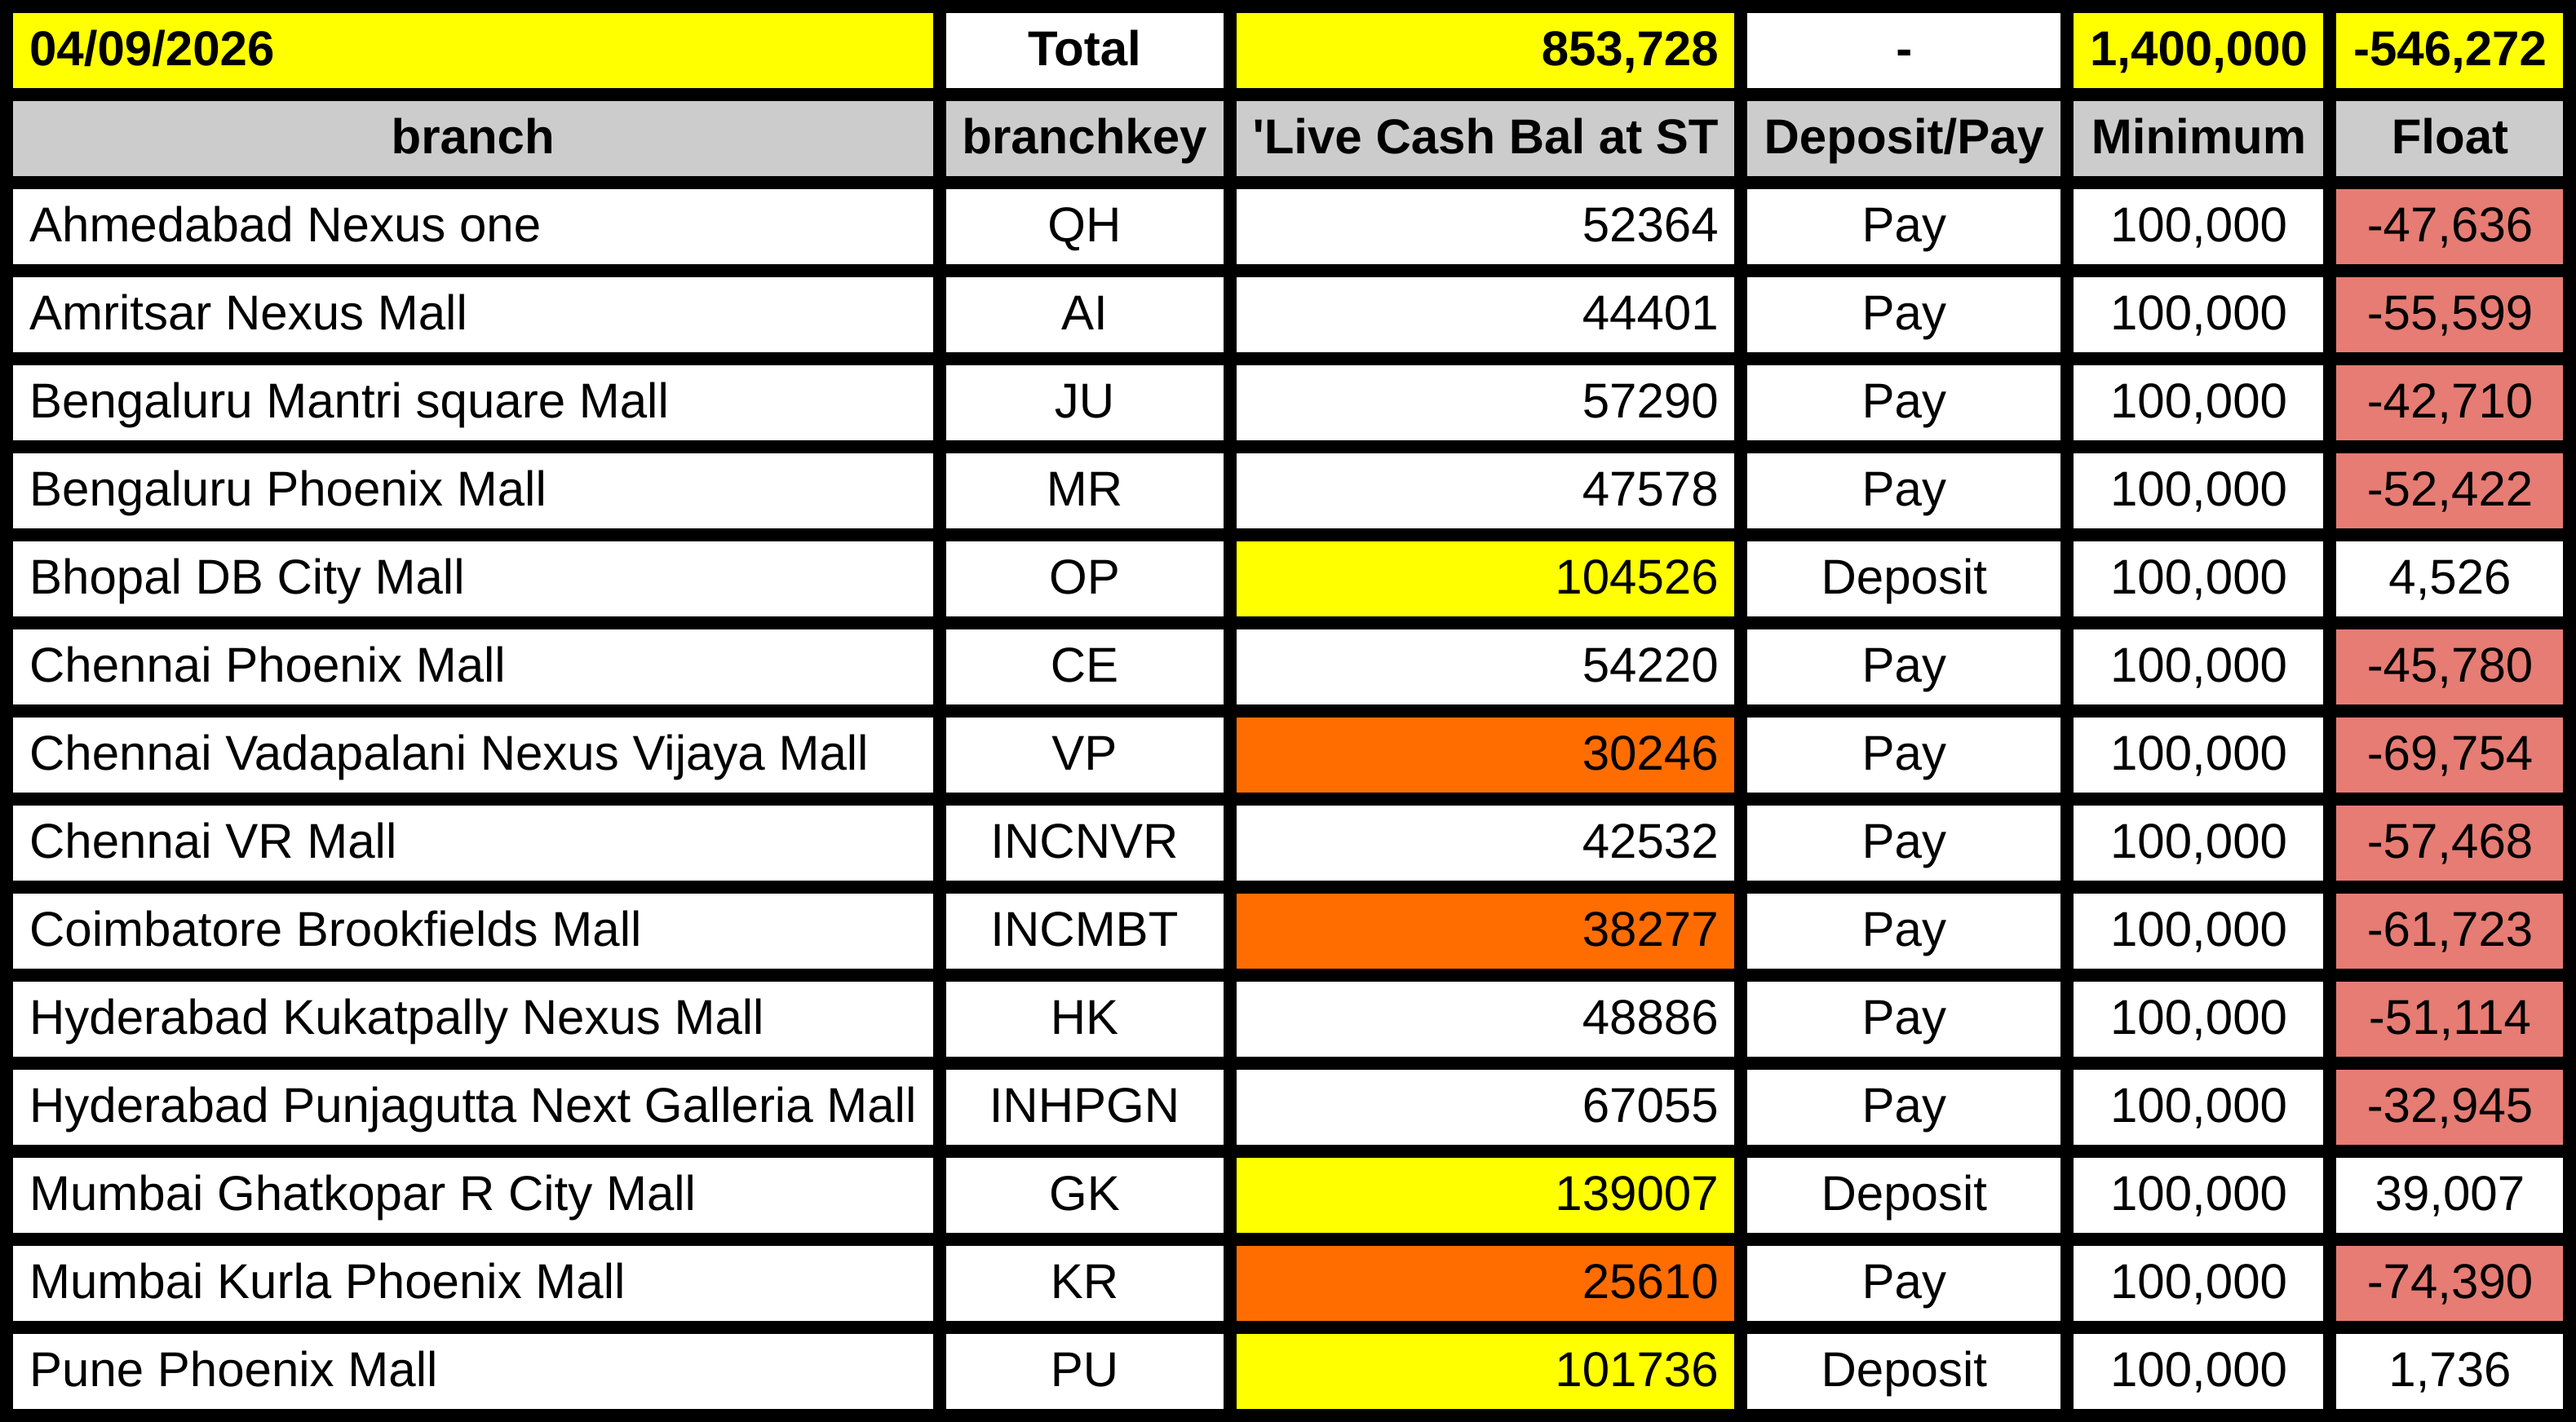
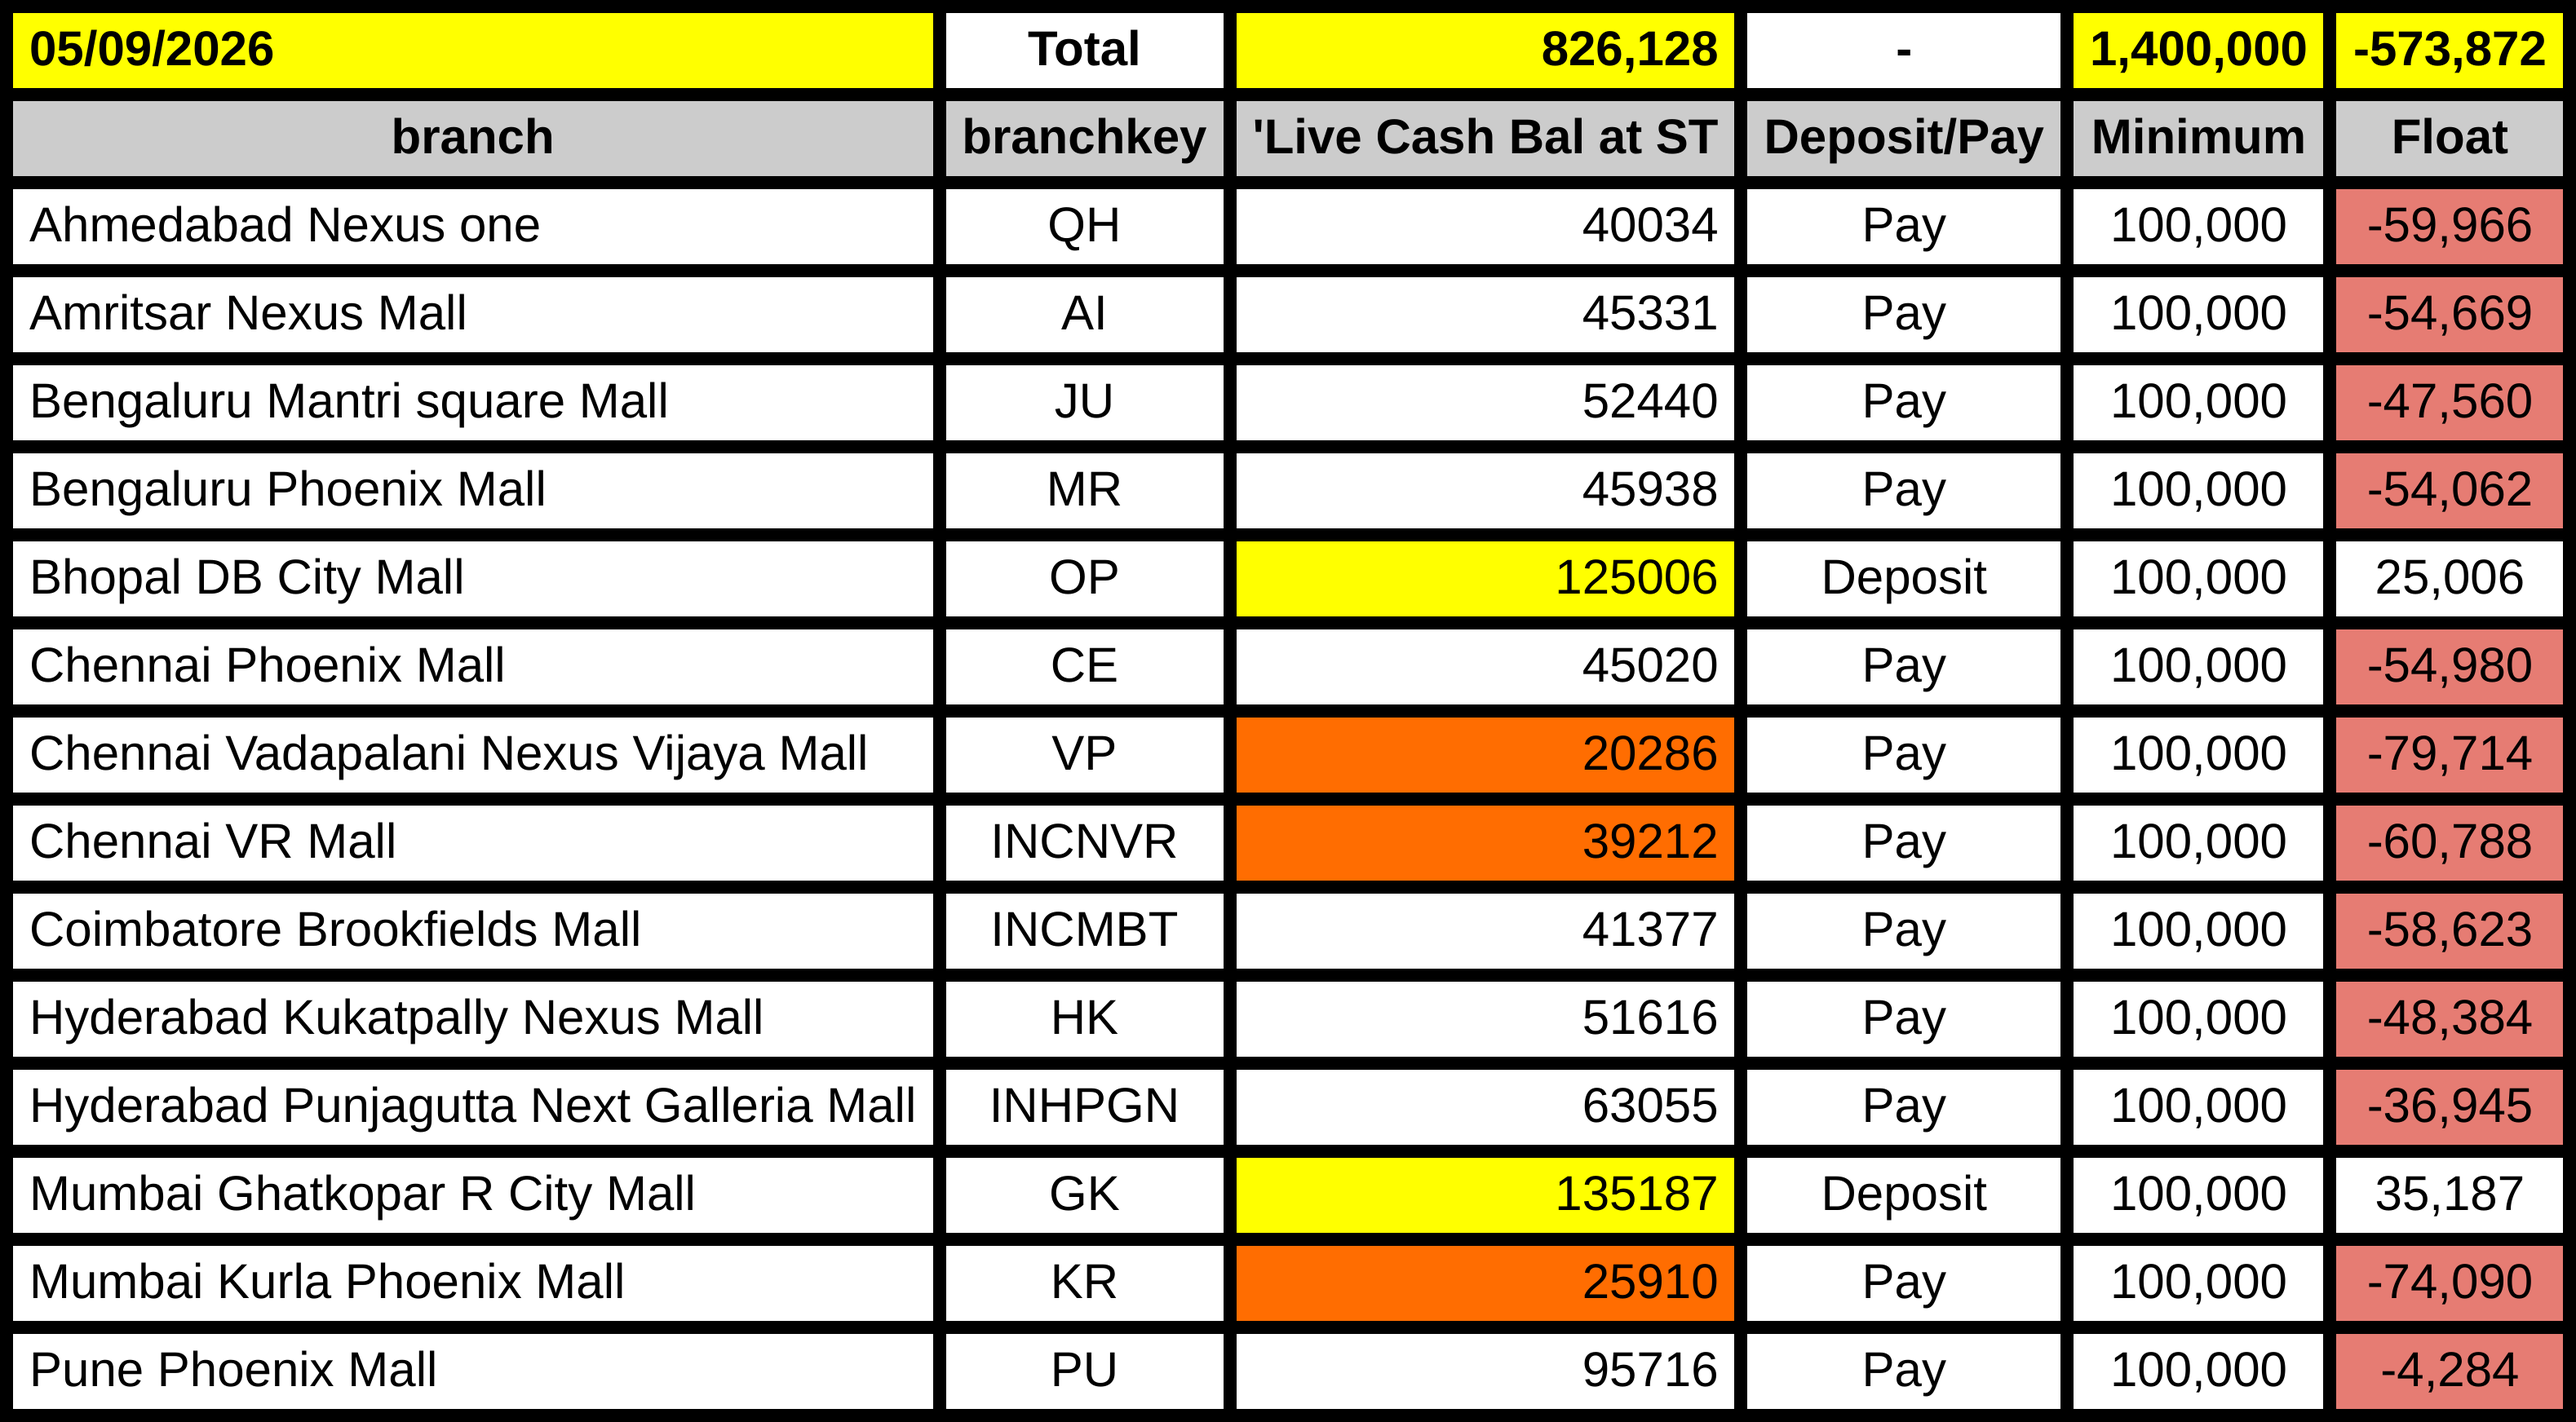
deploy: 1eb6ce62876c9d41067b4594acfaffc291ee4c8b

diff --git a/table.html b/table.html
@@ -21,7 +21,7 @@
           font-family: Arial, sans-serif;
           font-size: 30px;
           white-space: nowrap;
-        ">04/09/2026</td>
+        ">05/09/2026</td>
       
         <td style="
           background-color: #ffffff;
@@ -49,7 +49,7 @@
           font-family: Arial, sans-serif;
           font-size: 30px;
           white-space: nowrap;
-        ">853,728</td>
+        ">826,128</td>
       
         <td style="
           background-color: #ffffff;
@@ -91,7 +91,7 @@
           font-family: Arial, sans-serif;
           font-size: 30px;
           white-space: nowrap;
-        ">-546,272</td>
+        ">-573,872</td>
       </tr><tr>
         <td style="
           background-color: #cccccc;
@@ -217,7 +217,7 @@
           font-family: Arial, sans-serif;
           font-size: 30px;
           white-space: nowrap;
-        ">52364</td>
+        ">40034</td>
       
         <td style="
           background-color: #ffffff;
@@ -259,7 +259,7 @@
           font-family: Arial, sans-serif;
           font-size: 30px;
           white-space: nowrap;
-        ">-47,636</td>
+        ">-59,966</td>
       </tr><tr>
         <td style="
           background-color: #ffffff;
@@ -301,7 +301,7 @@
           font-family: Arial, sans-serif;
           font-size: 30px;
           white-space: nowrap;
-        ">44401</td>
+        ">45331</td>
       
         <td style="
           background-color: #ffffff;
@@ -343,7 +343,7 @@
           font-family: Arial, sans-serif;
           font-size: 30px;
           white-space: nowrap;
-        ">-55,599</td>
+        ">-54,669</td>
       </tr><tr>
         <td style="
           background-color: #ffffff;
@@ -385,7 +385,7 @@
           font-family: Arial, sans-serif;
           font-size: 30px;
           white-space: nowrap;
-        ">57290</td>
+        ">52440</td>
       
         <td style="
           background-color: #ffffff;
@@ -427,7 +427,7 @@
           font-family: Arial, sans-serif;
           font-size: 30px;
           white-space: nowrap;
-        ">-42,710</td>
+        ">-47,560</td>
       </tr><tr>
         <td style="
           background-color: #ffffff;
@@ -469,7 +469,7 @@
           font-family: Arial, sans-serif;
           font-size: 30px;
           white-space: nowrap;
-        ">47578</td>
+        ">45938</td>
       
         <td style="
           background-color: #ffffff;
@@ -511,7 +511,7 @@
           font-family: Arial, sans-serif;
           font-size: 30px;
           white-space: nowrap;
-        ">-52,422</td>
+        ">-54,062</td>
       </tr><tr>
         <td style="
           background-color: #ffffff;
@@ -553,7 +553,7 @@
           font-family: Arial, sans-serif;
           font-size: 30px;
           white-space: nowrap;
-        ">104526</td>
+        ">125006</td>
       
         <td style="
           background-color: #ffffff;
@@ -595,7 +595,7 @@
           font-family: Arial, sans-serif;
           font-size: 30px;
           white-space: nowrap;
-        ">4,526</td>
+        ">25,006</td>
       </tr><tr>
         <td style="
           background-color: #ffffff;
@@ -637,7 +637,7 @@
           font-family: Arial, sans-serif;
           font-size: 30px;
           white-space: nowrap;
-        ">54220</td>
+        ">45020</td>
       
         <td style="
           background-color: #ffffff;
@@ -679,7 +679,7 @@
           font-family: Arial, sans-serif;
           font-size: 30px;
           white-space: nowrap;
-        ">-45,780</td>
+        ">-54,980</td>
       </tr><tr>
         <td style="
           background-color: #ffffff;
@@ -721,7 +721,7 @@
           font-family: Arial, sans-serif;
           font-size: 30px;
           white-space: nowrap;
-        ">30246</td>
+        ">20286</td>
       
         <td style="
           background-color: #ffffff;
@@ -763,7 +763,7 @@
           font-family: Arial, sans-serif;
           font-size: 30px;
           white-space: nowrap;
-        ">-69,754</td>
+        ">-79,714</td>
       </tr><tr>
         <td style="
           background-color: #ffffff;
@@ -794,7 +794,7 @@
         ">INCNVR</td>
       
         <td style="
-          background-color: #ffffff;
+          background-color: #ff6d01;
           color: #000000;
           font-weight: normal;
           font-style: normal;
@@ -805,7 +805,7 @@
           font-family: Arial, sans-serif;
           font-size: 30px;
           white-space: nowrap;
-        ">42532</td>
+        ">39212</td>
       
         <td style="
           background-color: #ffffff;
@@ -847,7 +847,7 @@
           font-family: Arial, sans-serif;
           font-size: 30px;
           white-space: nowrap;
-        ">-57,468</td>
+        ">-60,788</td>
       </tr><tr>
         <td style="
           background-color: #ffffff;
@@ -878,7 +878,7 @@
         ">INCMBT</td>
       
         <td style="
-          background-color: #ff6d01;
+          background-color: #ffffff;
           color: #000000;
           font-weight: normal;
           font-style: normal;
@@ -889,7 +889,7 @@
           font-family: Arial, sans-serif;
           font-size: 30px;
           white-space: nowrap;
-        ">38277</td>
+        ">41377</td>
       
         <td style="
           background-color: #ffffff;
@@ -931,7 +931,7 @@
           font-family: Arial, sans-serif;
           font-size: 30px;
           white-space: nowrap;
-        ">-61,723</td>
+        ">-58,623</td>
       </tr><tr>
         <td style="
           background-color: #ffffff;
@@ -973,7 +973,7 @@
           font-family: Arial, sans-serif;
           font-size: 30px;
           white-space: nowrap;
-        ">48886</td>
+        ">51616</td>
       
         <td style="
           background-color: #ffffff;
@@ -1015,7 +1015,7 @@
           font-family: Arial, sans-serif;
           font-size: 30px;
           white-space: nowrap;
-        ">-51,114</td>
+        ">-48,384</td>
       </tr><tr>
         <td style="
           background-color: #ffffff;
@@ -1057,7 +1057,7 @@
           font-family: Arial, sans-serif;
           font-size: 30px;
           white-space: nowrap;
-        ">67055</td>
+        ">63055</td>
       
         <td style="
           background-color: #ffffff;
@@ -1099,7 +1099,7 @@
           font-family: Arial, sans-serif;
           font-size: 30px;
           white-space: nowrap;
-        ">-32,945</td>
+        ">-36,945</td>
       </tr><tr>
         <td style="
           background-color: #ffffff;
@@ -1141,7 +1141,7 @@
           font-family: Arial, sans-serif;
           font-size: 30px;
           white-space: nowrap;
-        ">139007</td>
+        ">135187</td>
       
         <td style="
           background-color: #ffffff;
@@ -1183,7 +1183,7 @@
           font-family: Arial, sans-serif;
           font-size: 30px;
           white-space: nowrap;
-        ">39,007</td>
+        ">35,187</td>
       </tr><tr>
         <td style="
           background-color: #ffffff;
@@ -1225,7 +1225,7 @@
           font-family: Arial, sans-serif;
           font-size: 30px;
           white-space: nowrap;
-        ">25610</td>
+        ">25910</td>
       
         <td style="
           background-color: #ffffff;
@@ -1267,7 +1267,7 @@
           font-family: Arial, sans-serif;
           font-size: 30px;
           white-space: nowrap;
-        ">-74,390</td>
+        ">-74,090</td>
       </tr><tr>
         <td style="
           background-color: #ffffff;
@@ -1298,7 +1298,7 @@
         ">PU</td>
       
         <td style="
-          background-color: #ffff00;
+          background-color: #ffffff;
           color: #000000;
           font-weight: normal;
           font-style: normal;
@@ -1309,7 +1309,7 @@
           font-family: Arial, sans-serif;
           font-size: 30px;
           white-space: nowrap;
-        ">101736</td>
+        ">95716</td>
       
         <td style="
           background-color: #ffffff;
@@ -1323,7 +1323,7 @@
           font-family: Arial, sans-serif;
           font-size: 30px;
           white-space: nowrap;
-        ">Deposit</td>
+        ">Pay</td>
       
         <td style="
           background-color: #ffffff;
@@ -1340,7 +1340,7 @@
         ">100,000</td>
       
         <td style="
-          background-color: #ffffff;
+          background-color: #e67c73;
           color: #000000;
           font-weight: normal;
           font-style: normal;
@@ -1351,7 +1351,7 @@
           font-family: Arial, sans-serif;
           font-size: 30px;
           white-space: nowrap;
-        ">1,736</td>
+        ">-4,284</td>
       </tr>
   </table>
 </body>
